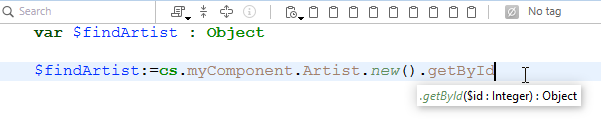
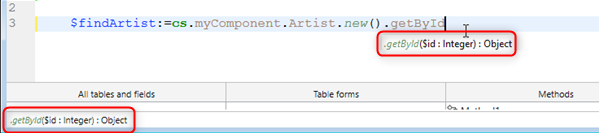
add screenshots and info on syntax

Changed region(s): [[0.0, 0.0, 1.0, 1.0]]

diff --git a/docs/settings/general.md b/docs/settings/general.md
@@ -40,13 +40,13 @@ Of course, it is recommended to use a distinguished name to avoid any conflict w
 
 ### Generate syntax file for code completion when compiled
 
-To make your component easier to use for other developers, you can create a syntax file that will be used by 4D to generate contextual help in the code editor, such as code completion and function syntax.
+To make your component easier to use for other developers, you can create a syntax file that will be used by 4D to generate contextual help in the code editor, such as code completion and function syntax:
 
-When you check this option, a syntax file (JSON format) is automatically created during the compilation phase, and placed in the \Resources\en.lproj folder of the component project. 4D uses the contents of that syntax file to generate contextual help. 
+![](assets/en/settings/syntax-code-completion-1.png)
 
-![](assets/en/settingssyntax-code-completion-1.png)
+![](assets/en/settings/syntax-code-completion-2.png)
 
-![](assets/en/settingssyntax-code-completion-2.png)
+When you check this option, a syntax file (JSON format) is automatically created during the compilation phase, filled with the syntax of your component's classes, functions, and methods, and placed in the \Resources\en.lproj folder of the component project. 4D uses the contents of that syntax file to generate contextual help. 
 
 If you don't enter a [component namespace](#component-namespace-in-the-class-store), the resources for the classes and methods are not generated even if the syntax file option is checked.
 
@@ -56,7 +56,7 @@ Just like in any project, you can create hidden classes and functions in a compo
 
 Hidden classes and functions can still be used if you know their names, but they do not appear as suggestions when using code completion.
 
-For example, the following syntax is valid even if the Rectangle class is hidden: 
+For example, the following syntax is valid even if the `Rectangle` class is hidden: 
 
 ```4d
 $rect:=cs.eGeometry._Rectangle.new(10;20)
